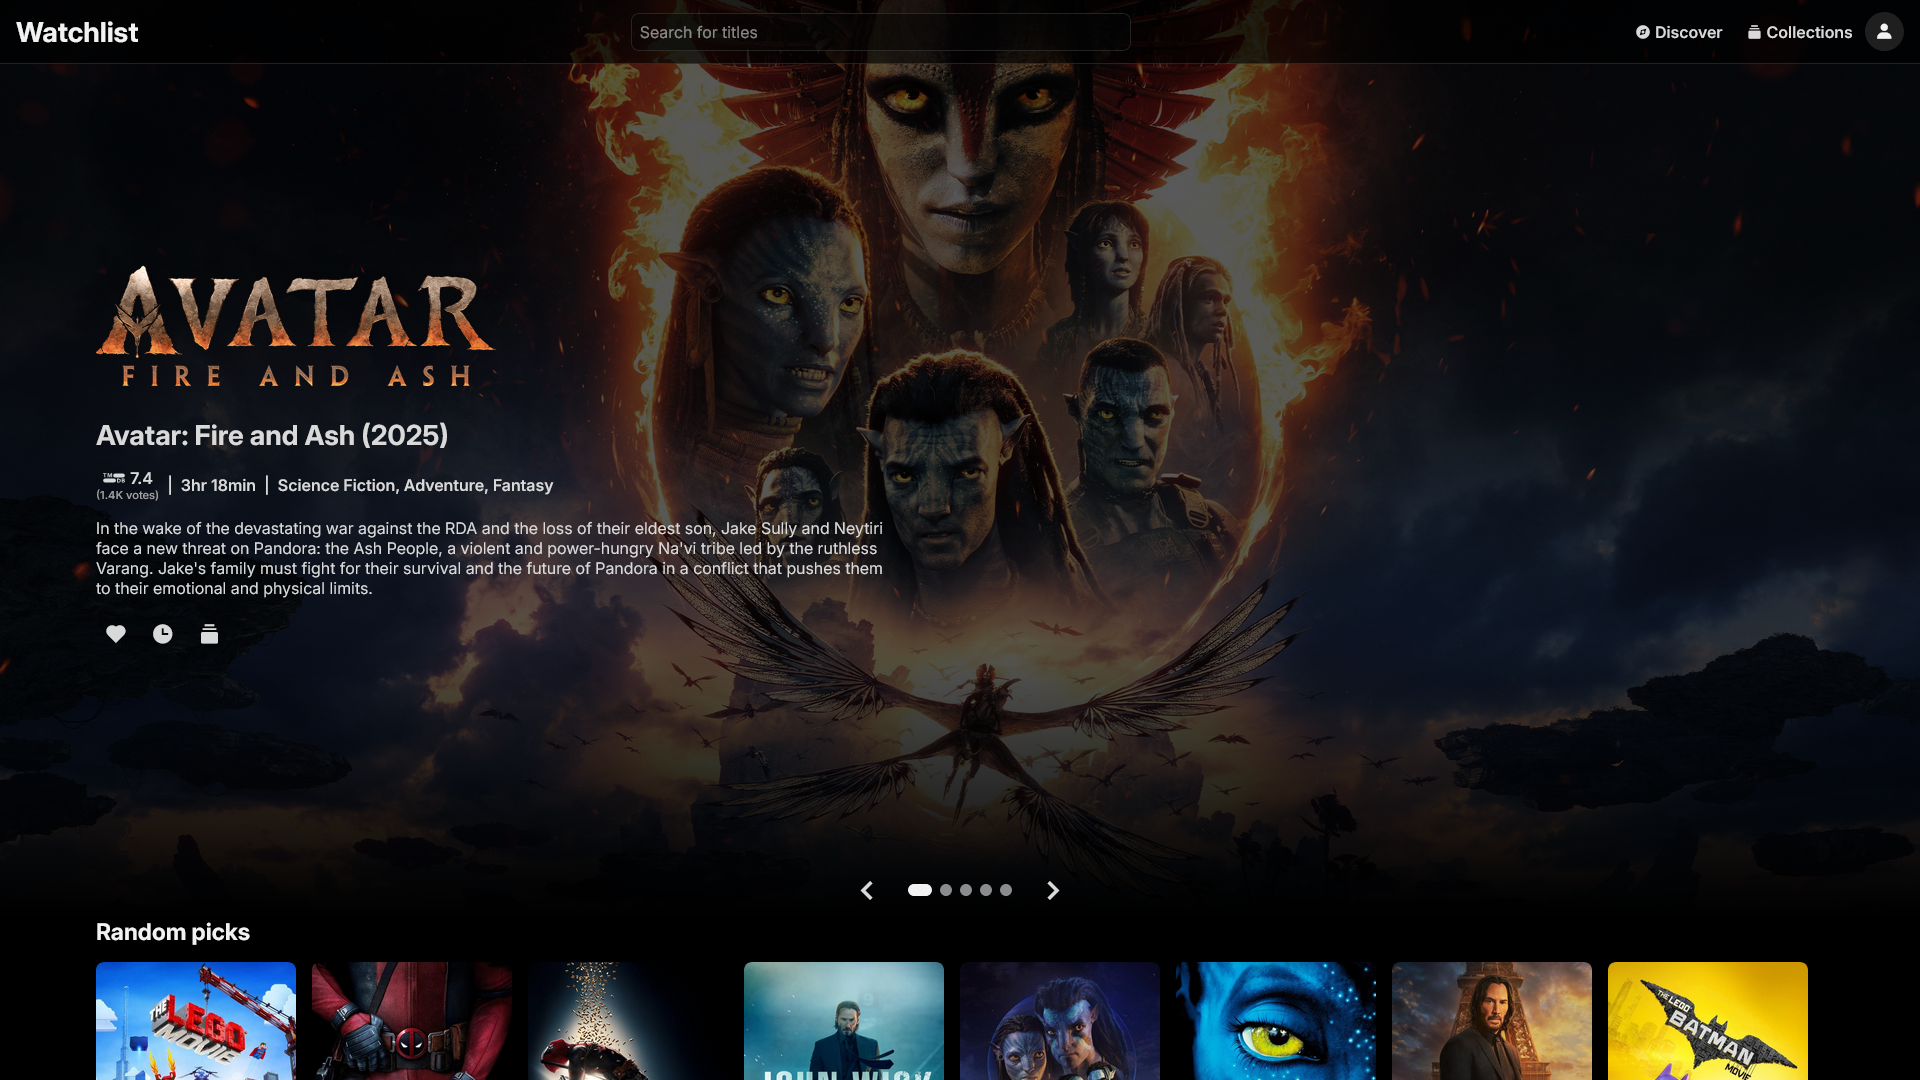
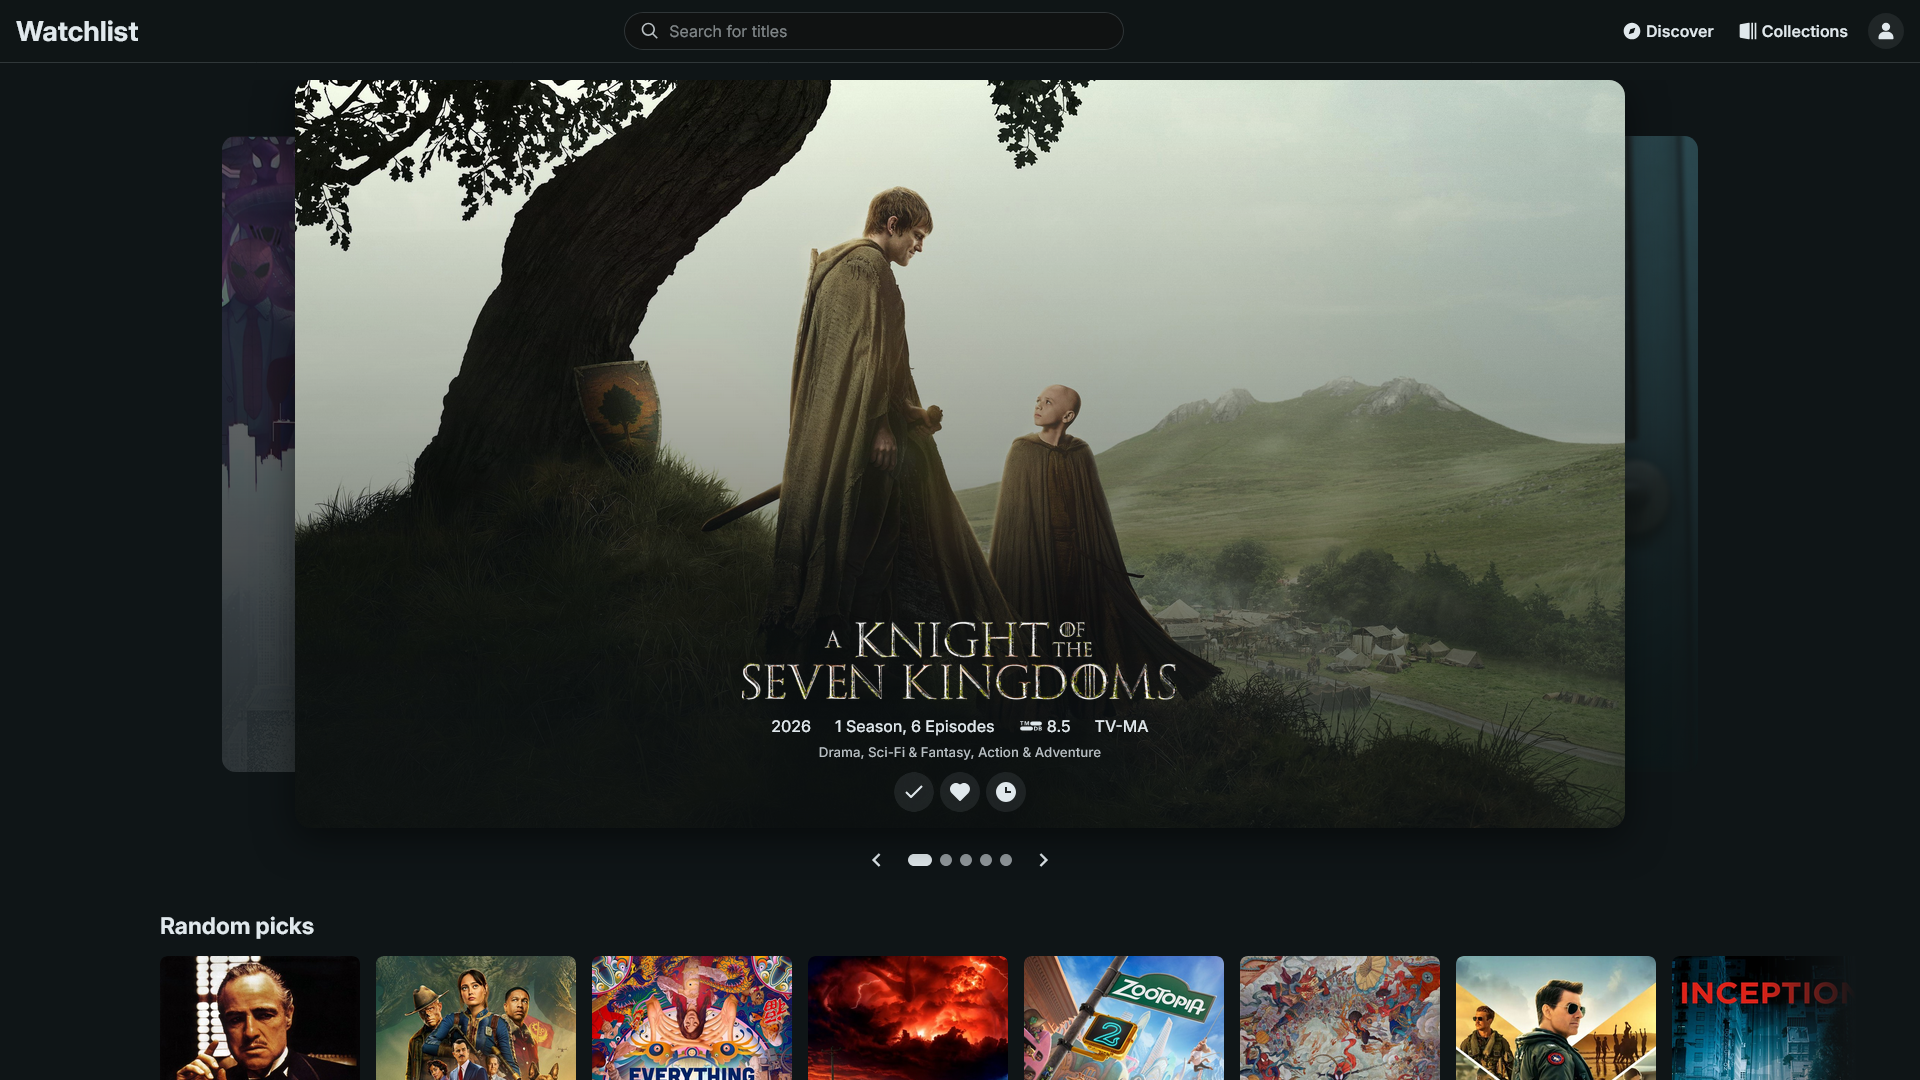
Update images and add `SCREENSHOTS.md`

diff --git a/README.md b/README.md
@@ -5,7 +5,10 @@
 
 Watchlist is a full rewrite of the watchlist feature from a previous hobby project. This time it’s being built as a standalone application from the ground up, applying lessons learned to improve structure, maintainability, and overall design.
 
-![Alpha preview of the homepage](/images/home_page.png "Alpha preview of the homepage")
+![Alpha preview of the homepage](/images/home_page.png)
+
+> [!TIP]
+> **Want to see more?** Check out the full list of screenshots [here](SCREENSHOTS.md).
 
 
 ## Planned key features
@@ -30,7 +33,7 @@ For the database, it’s recommended to run a local PostgreSQL server and connec
 
 ## Deployment
 
-The project will be deployable via Docker. Images will be automatically built and published to GHCR.
+The project will be deployable via Docker. Once implemented docker images will be published to GHCR.
 
 
 ## License

diff --git a/SCREENSHOTS.md b/SCREENSHOTS.md
@@ -1,0 +1,25 @@
+# Screenshots
+
+A visual overview of the application.
+
+## Desktop Views
+
+### Home
+![Home Page](/images/home_page.png)
+
+### Search
+![Search](/images/search_page.png)
+
+### Title details
+![Details](/images/title_details.png)
+
+<!-- ---
+
+## Mobile Experience
+Watchlist is fully responsive and designed to feel like a native app on mobile devices.
+
+<p align="center">
+  <img src="/images/mobile_home.png" width="30%" />
+  <img src="/images/mobile_search.png" width="30%" />
+  <img src="/images/mobile_details.png" width="30%" />
+</p> -->
